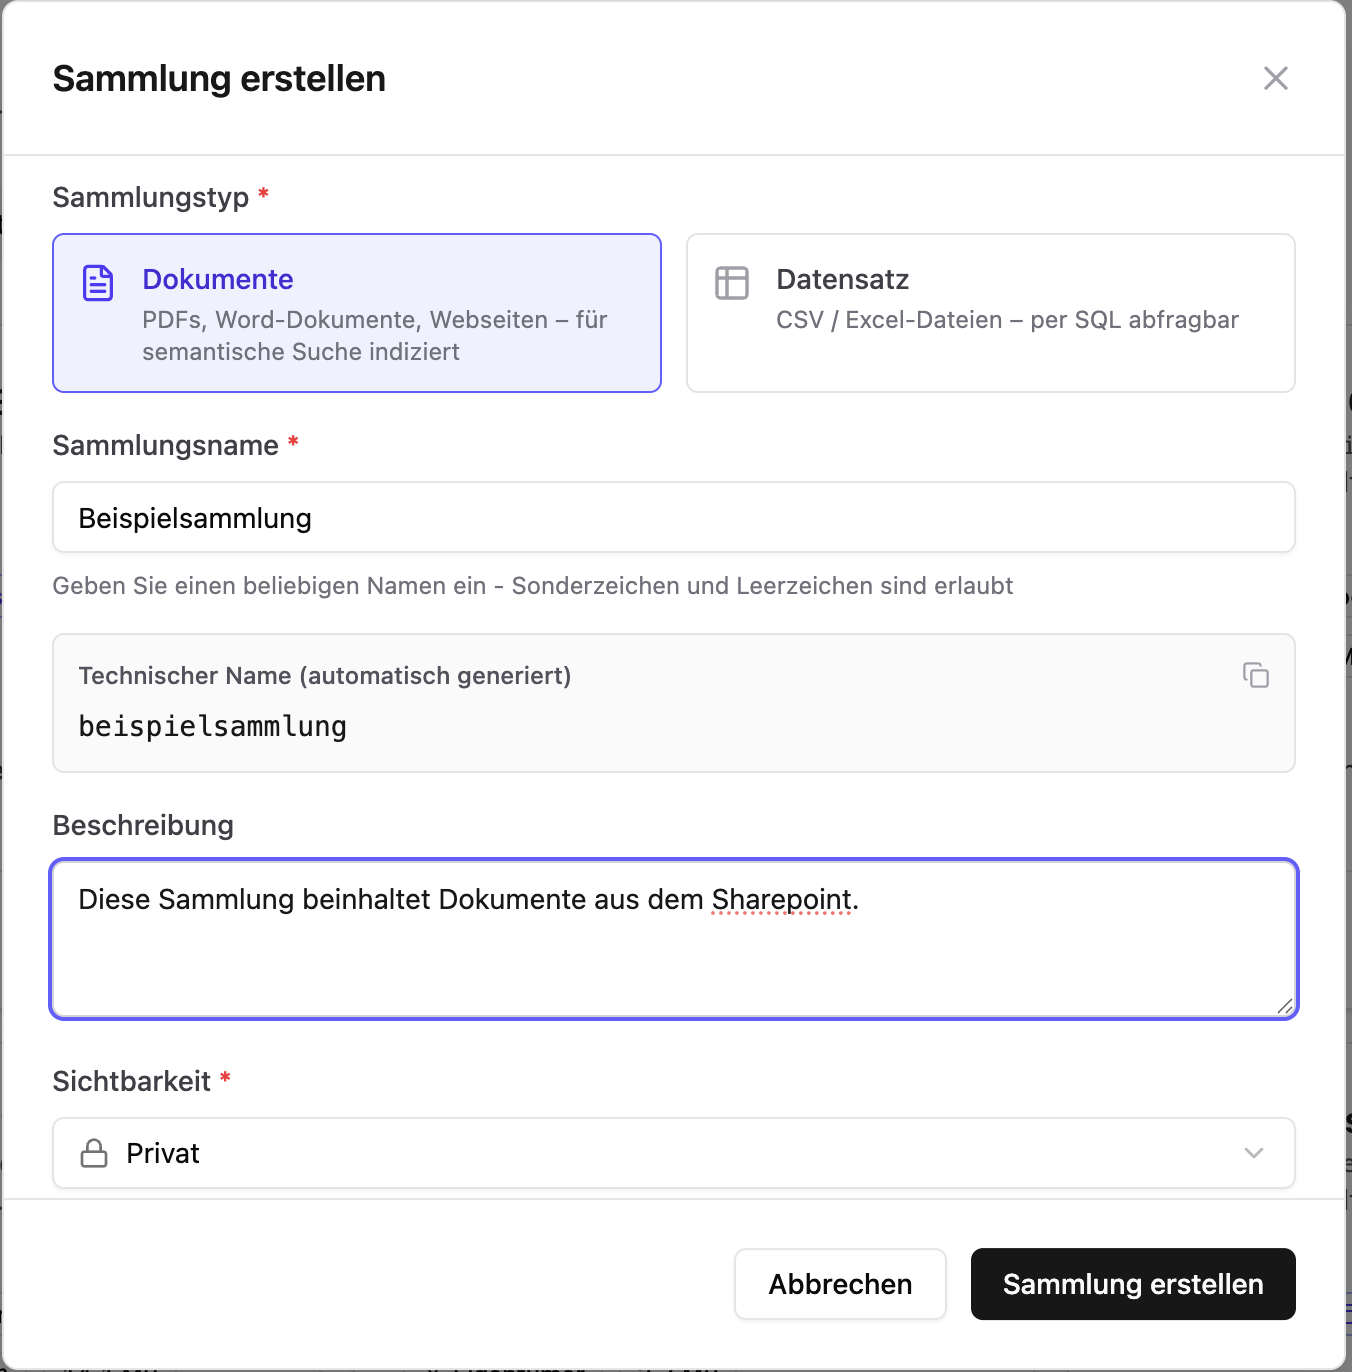
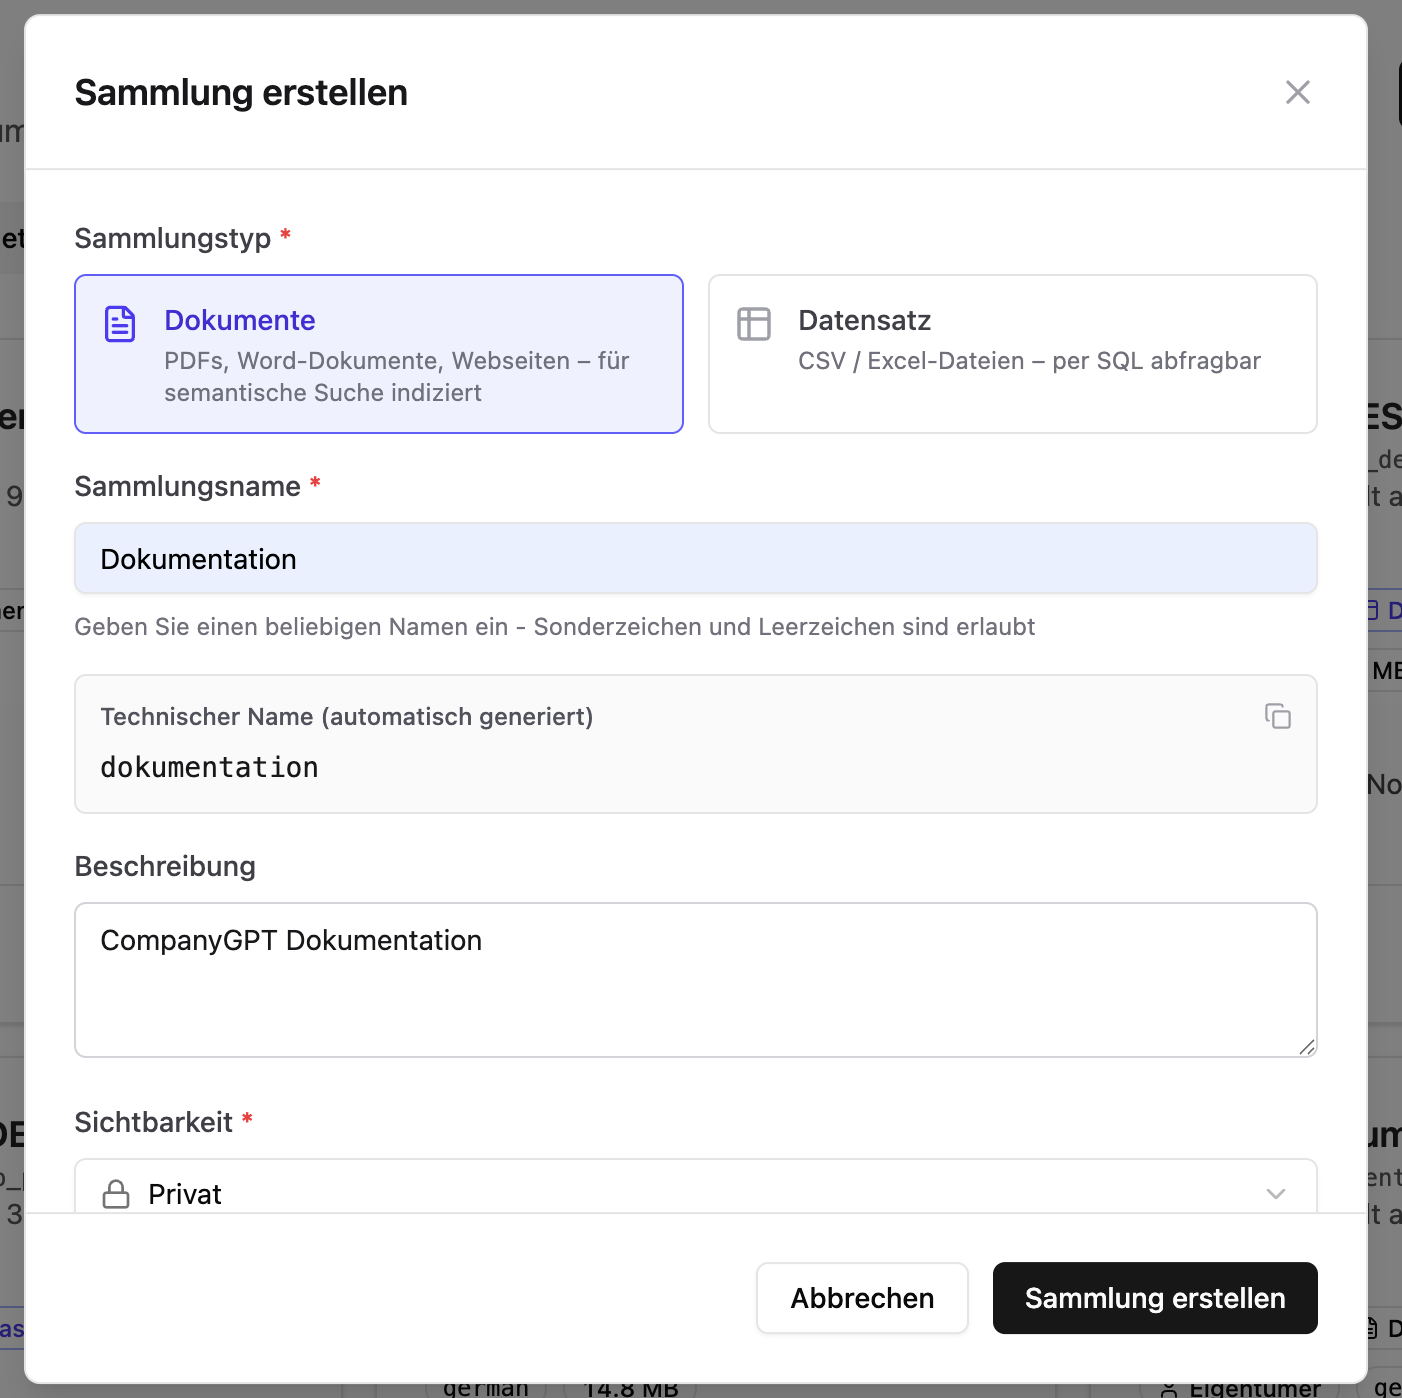
feat: dokue help agent

diff --git a/src/content/docs/de/tutorials/index.md b/src/content/docs/de/tutorials/index.md
@@ -8,6 +8,7 @@ In dieser Rubrik finden Sie gebrauchsfertige Agenten-Vorlagen und Anleitungen ru
 ## Addons
 
 - [CompanyRAG in CompanyGPT nutzen](/de/tutorials/addons/companyrag-in-companygpt/) – Such-Agent mit dem MCP Server ai-search einrichten
+- [Hilfe-Agent mit Webcrawl-Quelle](/de/tutorials/addons/companygpt-hilfe-agent/) – Sitemap regelmäßig crawlen, indexieren und als Agent bereitstellen
 
 ## MCP
 

diff --git a/src/content/docs/en/tutorials/index.md b/src/content/docs/en/tutorials/index.md
@@ -8,6 +8,7 @@ This section contains ready-to-use agent templates and guides for CompanyGPT. Al
 ## Addons
 
 - [Using CompanyRAG in CompanyGPT](/en/tutorials/addons/companyrag-in-companygpt/) – Set up a search agent with the MCP Server ai-search
+- [Help Agent with a Web Crawl Source](/en/tutorials/addons/companygpt-hilfe-agent/) – Crawl a sitemap on a schedule, index it, and serve it as an agent
 
 ## MCP
 
